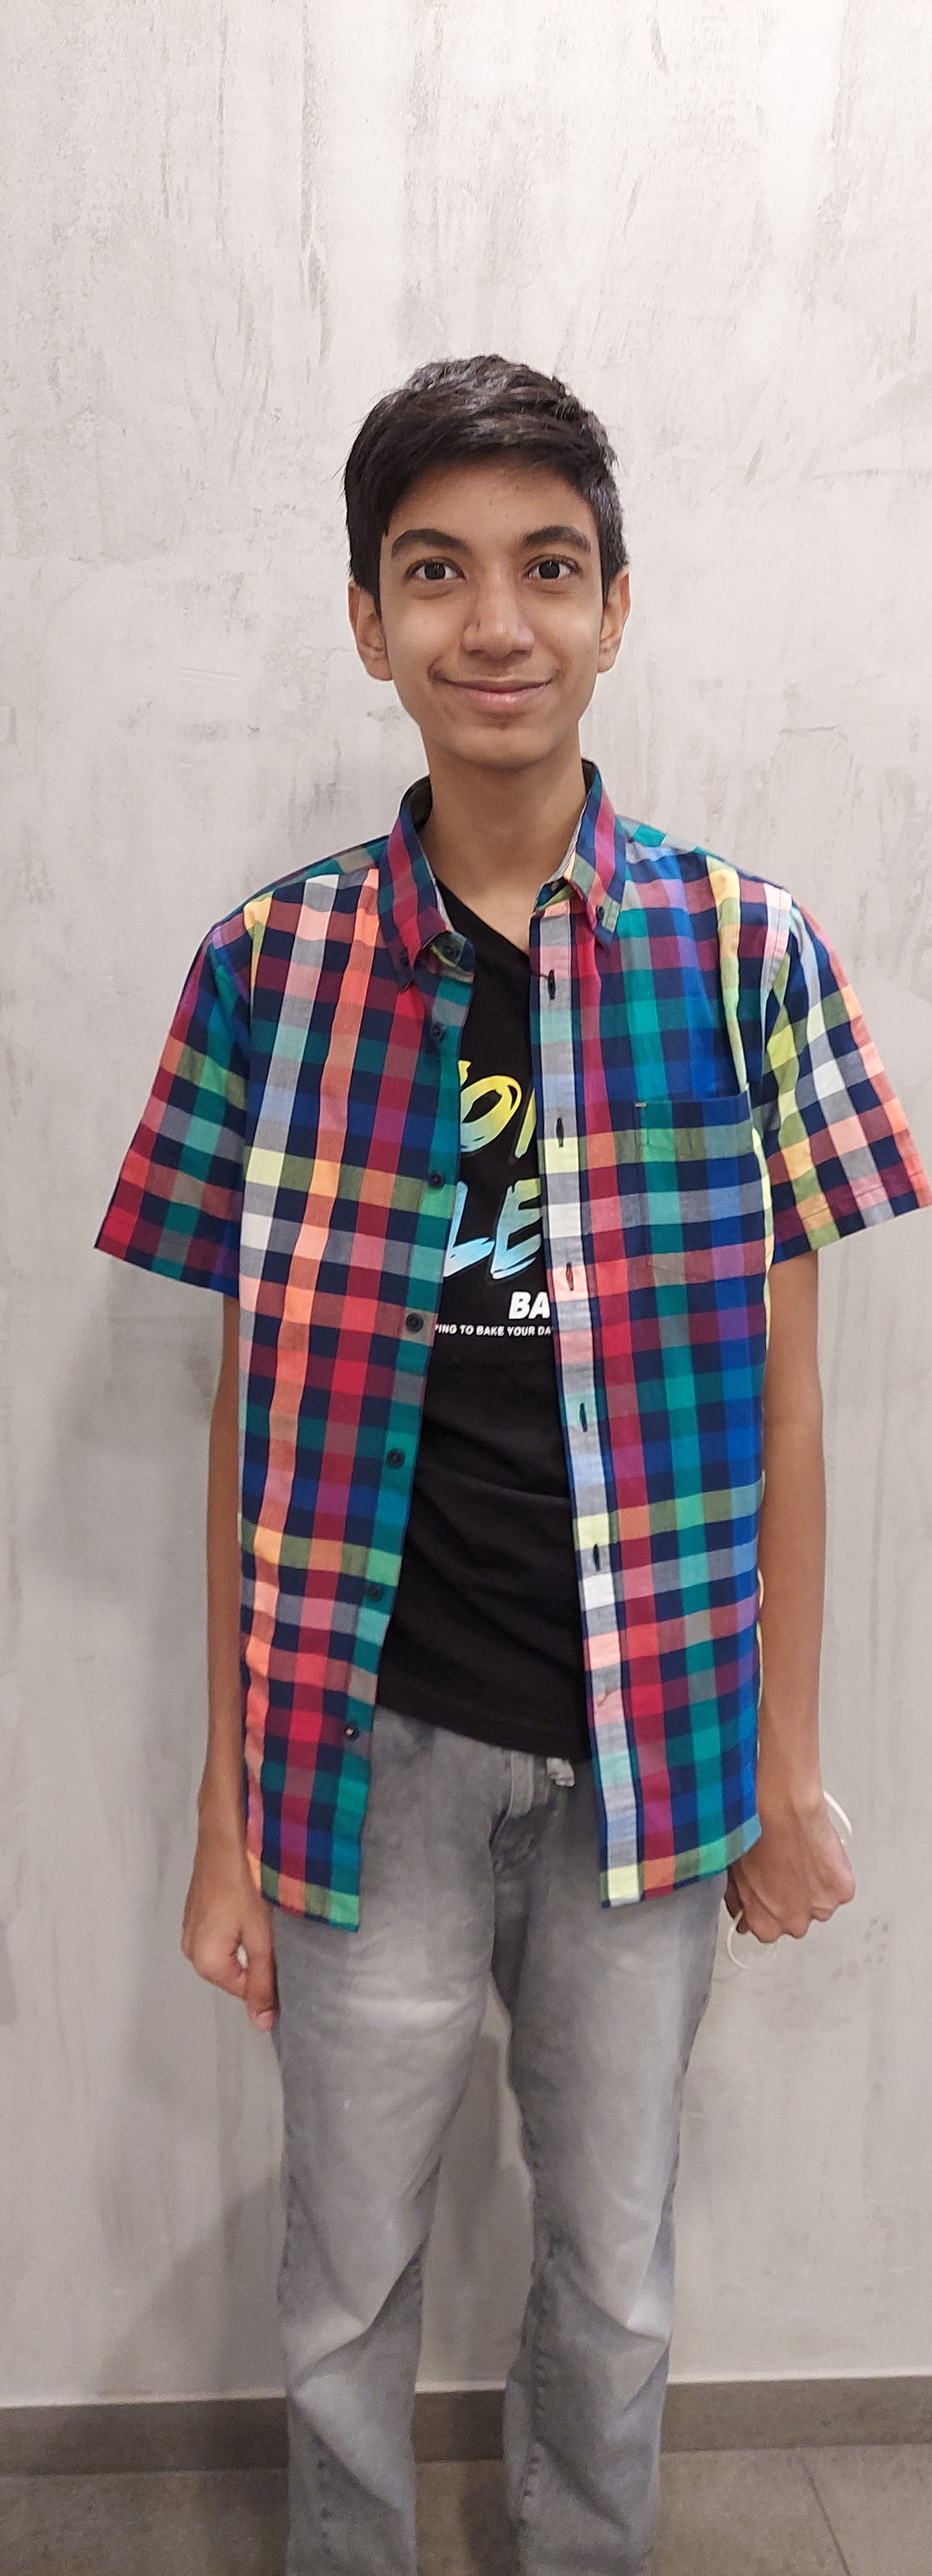
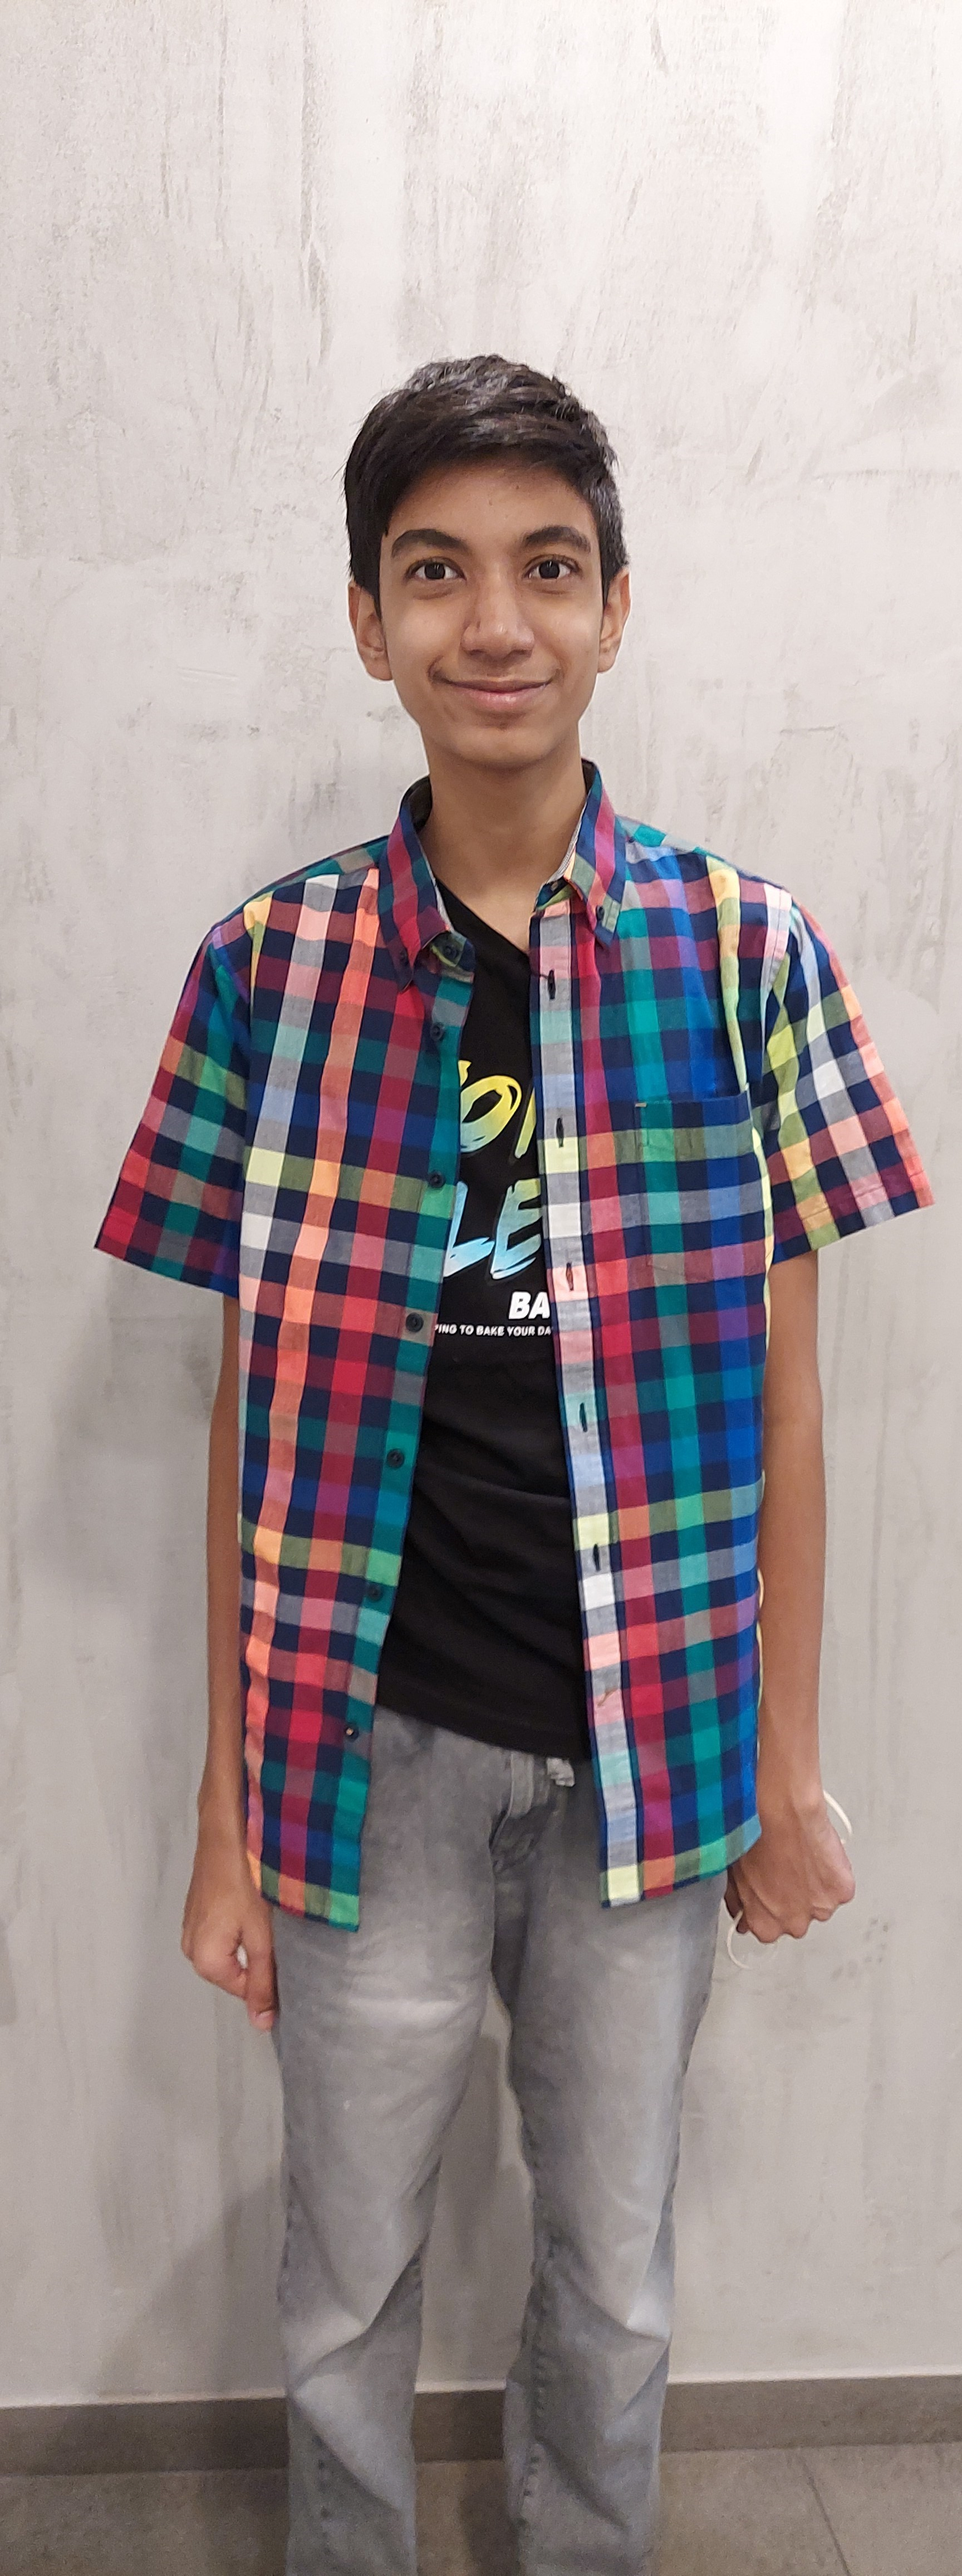
made the background static :'(

diff --git a/index.html b/index.html
@@ -17,7 +17,7 @@
 <style>
     body {
         background: fixed;
-        background-image: url('./src/background.gif');
+        background-image: url('./src/background-black.png');
         background-repeat: no-repeat;
     }
 
